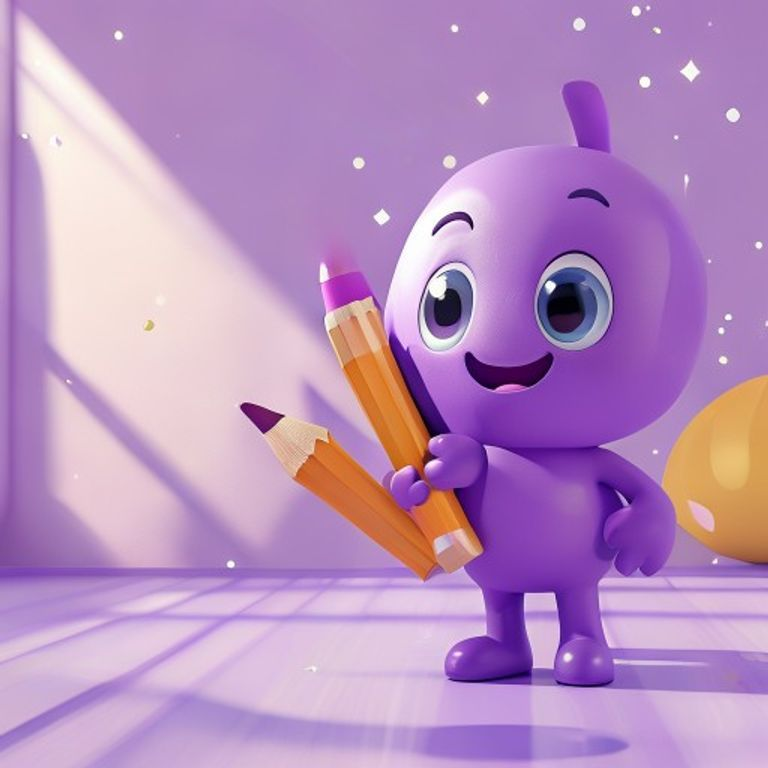
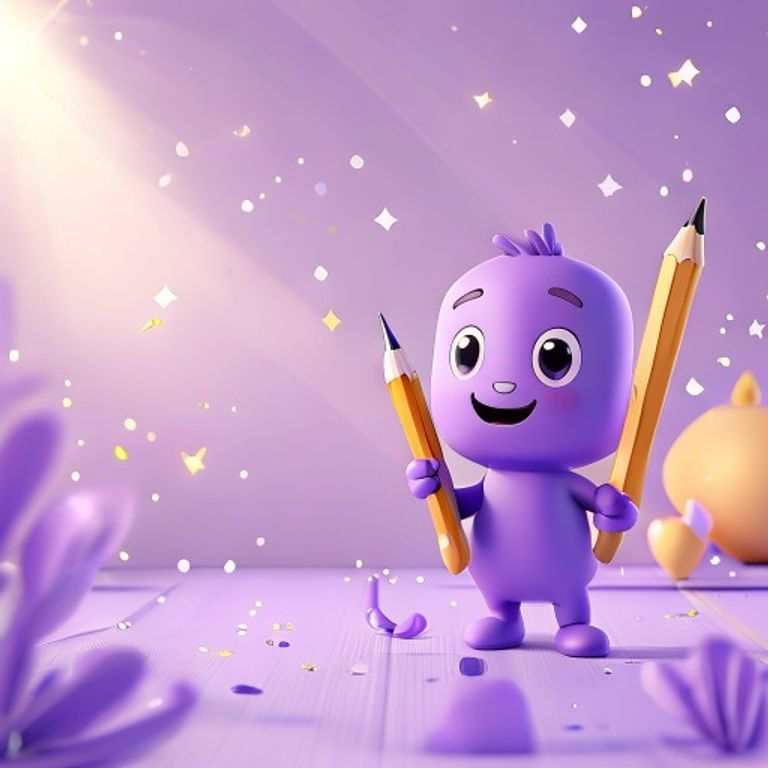
switch hero to integrated pollinations scene

diff --git a/src/App.css b/src/App.css
@@ -534,7 +534,7 @@
 
 .hero-scene-panel {
   position: relative;
-  min-height: 372px;
+  min-height: 388px;
   border-radius: 36px;
   overflow: hidden;
   background:
@@ -548,113 +548,46 @@
 .hero-scene-panel::before {
   content: '';
   position: absolute;
-  inset: 34px 24px 24px;
+  inset: 22px 18px 18px;
   border-radius: 34px;
   background:
-    linear-gradient(180deg, rgba(255, 255, 255, 0.3), rgba(255, 255, 255, 0.08));
-  border: 1px solid rgba(255, 255, 255, 0.26);
+    linear-gradient(180deg, rgba(255, 255, 255, 0.18), rgba(255, 255, 255, 0.06));
+  border: 1px solid rgba(255, 255, 255, 0.22);
 }
 
 .hero-scene-panel::after {
   content: '';
   position: absolute;
-  inset: auto 46px 24px 46px;
-  height: 112px;
+  inset: auto 34px 18px 34px;
+  height: 88px;
   border-radius: 999px;
-  background: radial-gradient(circle, rgba(112, 74, 241, 0.28), rgba(112, 74, 241, 0) 72%);
+  background: radial-gradient(circle, rgba(112, 74, 241, 0.18), rgba(112, 74, 241, 0) 72%);
   filter: blur(12px);
 }
 
-.hero-sidekick-badge,
-.hero-mascot-stage,
-.hero-mascot-image,
+.hero-scene-image-wrap,
+.hero-scene-image,
 .hero-stat-card,
 .hero-speech {
   position: absolute;
   z-index: 1;
 }
 
-.hero-sidekick-badge {
-  left: 30px;
-  top: 128px;
-  display: flex;
-  align-items: center;
-  gap: 10px;
-  padding: 10px 12px;
-  width: min(40%, 172px);
-  border-radius: 20px;
-  background: rgba(255, 255, 255, 0.58);
-  border: 1px solid rgba(255, 255, 255, 0.5);
-  box-shadow: 0 14px 30px rgba(111, 94, 187, 0.08);
-  backdrop-filter: blur(10px);
-  z-index: 4;
-}
-
-.hero-sidekick-badge strong,
-.hero-sidekick-badge span {
-  display: block;
-}
-
-.hero-sidekick-badge strong {
-  color: #35295f;
-  font-size: 0.9rem;
-}
-
-.hero-sidekick-badge span {
-  margin-top: 2px;
-  color: #7a6cab;
-  font-size: 0.76rem;
-}
-
-.hero-sidekick-image {
-  width: 42px;
-  height: 42px;
-  object-fit: contain;
-  flex: 0 0 auto;
-  filter: drop-shadow(0 8px 16px rgba(97, 63, 202, 0.12));
-}
-
-.hero-mascot-stage {
-  right: 20px;
-  bottom: 14px;
-  width: min(72%, 350px);
-  aspect-ratio: 1 / 1;
-  overflow: visible;
+.hero-scene-image-wrap {
+  inset: 30px 18px 18px 18px;
+  border-radius: 30px;
+  overflow: hidden;
+  box-shadow: inset 0 1px 0 rgba(255, 255, 255, 0.26);
   z-index: 2;
 }
 
-.hero-mascot-stage::before,
-.hero-mascot-stage::after {
-  content: '';
-  position: absolute;
-}
-
-.hero-mascot-stage::before {
-  inset: auto 8% 5% 12%;
-  height: 18%;
-  border-radius: 999px;
-  background: radial-gradient(circle, rgba(80, 48, 190, 0.22), rgba(80, 48, 190, 0) 74%);
-  filter: blur(14px);
-}
-
-.hero-mascot-stage::after {
-  display: none;
-}
-
-.hero-mascot-image {
-  position: absolute;
+.hero-scene-image {
   inset: 0;
   width: 100%;
   height: 100%;
-  object-fit: contain;
-  object-position: bottom right;
-  transform: translateY(2%);
-  filter:
-    saturate(1.04)
-    contrast(1.01)
-    drop-shadow(0 22px 34px rgba(94, 65, 214, 0.16));
-  animation: float-soft 4.6s ease-in-out infinite;
-  z-index: 2;
+  object-fit: cover;
+  object-position: center;
+  filter: saturate(1.02) contrast(1.01);
 }
 
 .hero-orb {
@@ -694,11 +627,6 @@
   top: 28px;
 }
 
-.hero-speech-bottom {
-  left: 30px;
-  bottom: 100px;
-}
-
 .hero-stat-card {
   display: flex;
   align-items: center;
@@ -729,11 +657,6 @@
 .hero-stat-card-top {
   right: 18px;
   top: 22px;
-}
-
-.hero-stat-card-bottom {
-  left: 30px;
-  bottom: 24px;
 }
 
 .hero-scene-footer {
@@ -1952,12 +1875,6 @@
     min-height: 320px;
   }
 
-  .hero-sidekick-badge {
-    left: 18px;
-    top: 84px;
-    width: min(52%, 168px);
-  }
-
   .hero-scene-panel::before {
     inset: 32px 16px 20px;
   }
@@ -1970,26 +1887,6 @@
   .hero-speech-top {
     left: 16px;
     top: 18px;
-  }
-
-  .hero-speech-bottom {
-    left: 16px;
-    bottom: 74px;
-  }
-
-  .hero-mascot-stage {
-    right: 10px;
-    bottom: 10px;
-    width: min(84%, 316px);
-  }
-
-  .hero-mascot-image {
-    width: 108%;
-    height: 108%;
-  }
-
-  .hero-sidekick-badge {
-    padding: 10px 12px;
   }
 
   .hero-stat-card {

diff --git a/src/App.tsx b/src/App.tsx
@@ -455,29 +455,14 @@ function App() {
               <div className="hero-orb hero-orb-left" />
               <div className="hero-orb hero-orb-right" />
               <div className="hero-speech hero-speech-top">Let&apos;s learn!</div>
-              <div className="hero-speech hero-speech-bottom">Level up!</div>
-              <div className="hero-sidekick-badge">
-                <img src="/pollinations/hero-sidekick.png" alt="Mascote auxiliar do SparkLingo" className="hero-sidekick-image" />
-                <div>
-                  <strong>Mini coach</strong>
-                  <span>Dica ao vivo</span>
-                </div>
-              </div>
-              <div className="hero-mascot-stage">
-                <img src="/pollinations/hero-mascot.png" alt="Spark em uma cena principal do SparkLingo" className="hero-mascot-image" />
+              <div className="hero-scene-image-wrap">
+                <img src="/pollinations/hero-scene.png" alt="Cena principal do SparkLingo com mascote em palco lilás" className="hero-scene-image" />
               </div>
               <div className="hero-stat-card hero-stat-card-top">
                 <Zap size={16} />
                 <div>
                   <strong>+120 XP</strong>
                   <span>Semana passada</span>
-                </div>
-              </div>
-              <div className="hero-stat-card hero-stat-card-bottom">
-                <Trophy size={16} />
-                <div>
-                  <strong>Top 2</strong>
-                  <span>No ranking da turma</span>
                 </div>
               </div>
             </div>